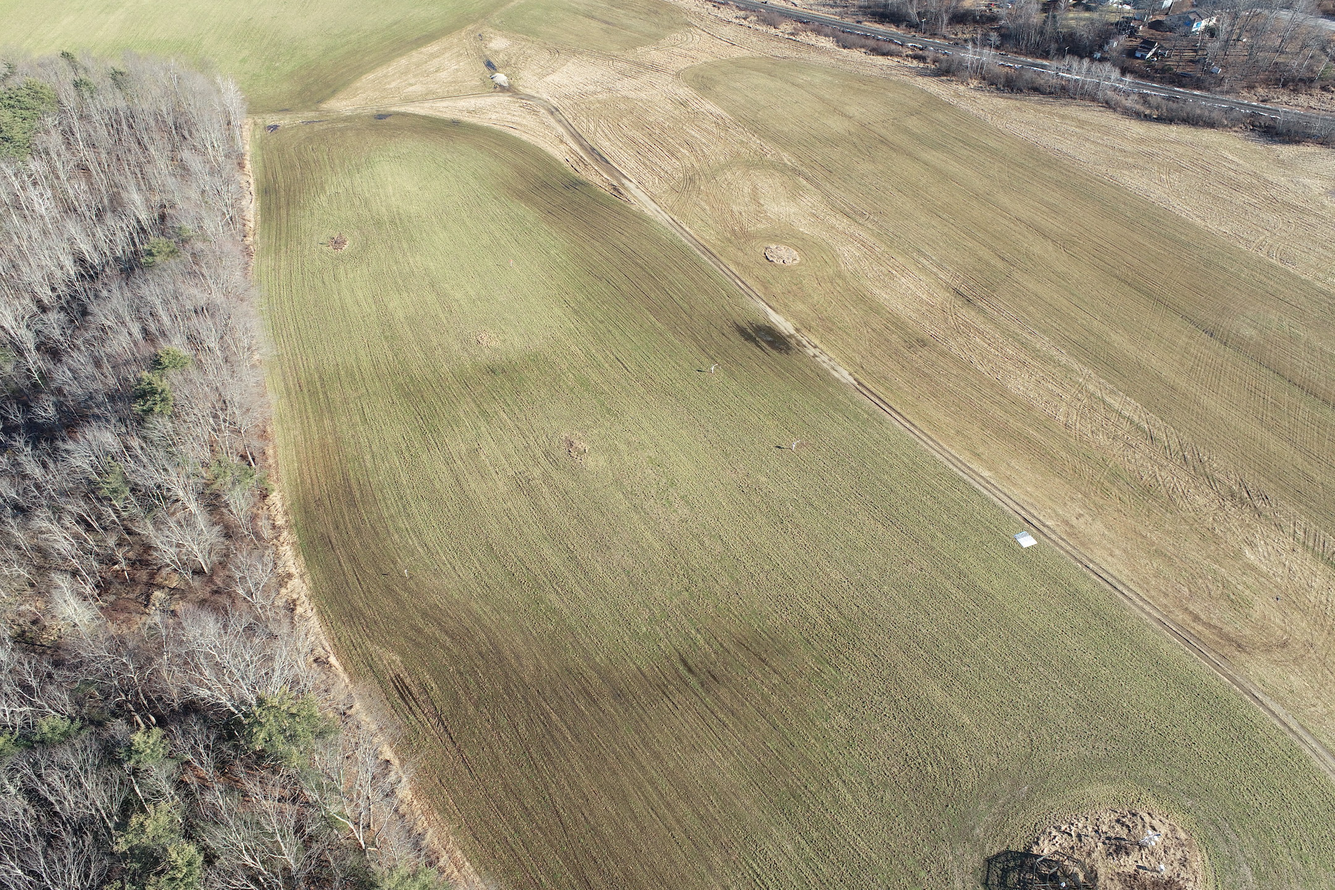
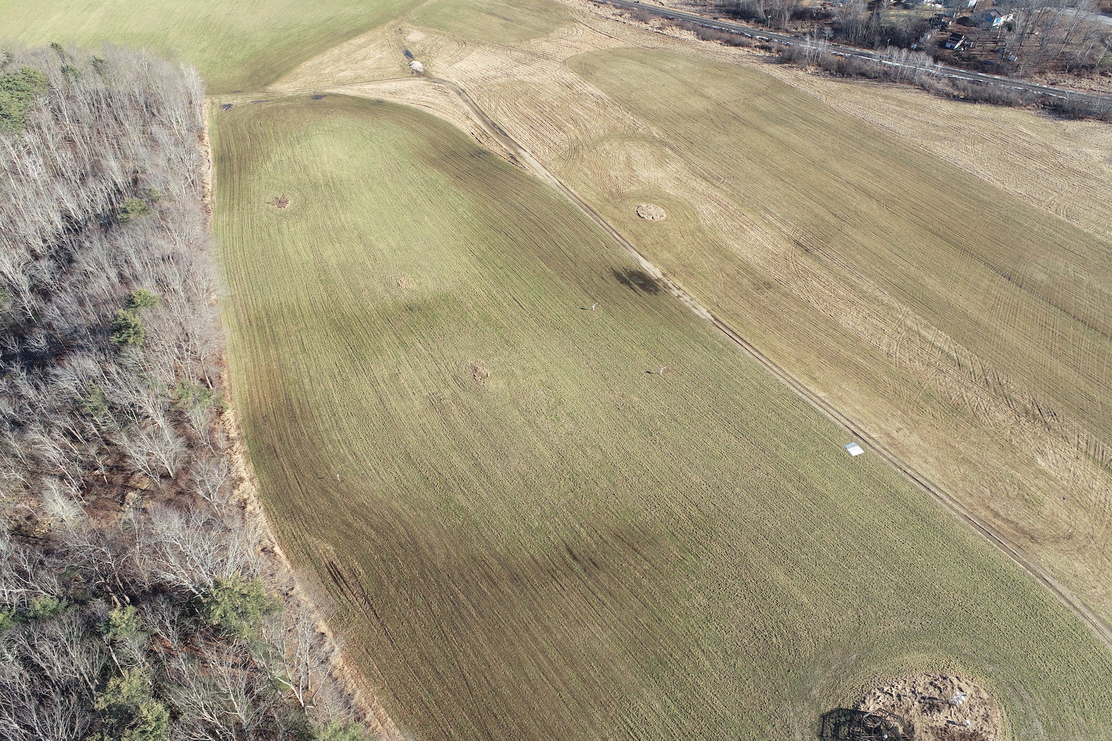
update image resolution

diff --git a/kingman_project.html b/kingman_project.html
@@ -34,12 +34,12 @@
         </h3>
 
 
-        <img src="images/research_kingman_cluster_map.png" class="center" width="75%" height="auto" style="border-radius: 2%;" alt="Image of Kingman Farm with colorful clustering">
+        <img src="images/research_kingman_cluster_map.jpg" class="center" width="75%" height="auto" style="border-radius: 2%;" alt="Image of Kingman Farm with colorful clustering">
 
         
         <hr>
         <h2 style="text-align: center;">Take a Closer Look at Each Site</h2>
-        <h3 style="text-align: center;">(shown site images are from January 11, 2024)</h3>
+        <h3 style="text-align: center;">(shown site images are from January 18, 2024)</h3>
 
         <div class="row">
 
@@ -166,7 +166,7 @@
         <br>
 
         <hr>
-        <h2 style="text-align: center;">Explore Previous Observations from All Sites</h2>
+        <h2 style="text-align: center;">Explore Previous Week's Observations</h2>
         <h3>Note: need to do bias adjustment for sensors - some values may be innaccurate</h3>
 
         <div class="row">
